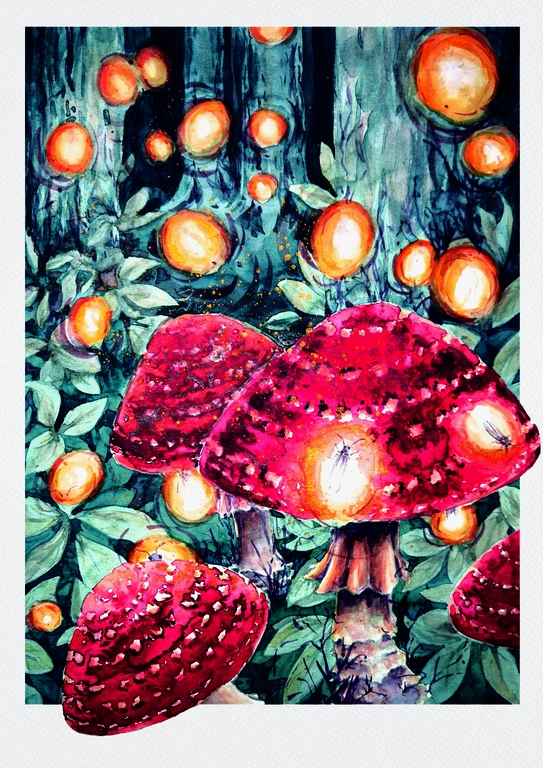
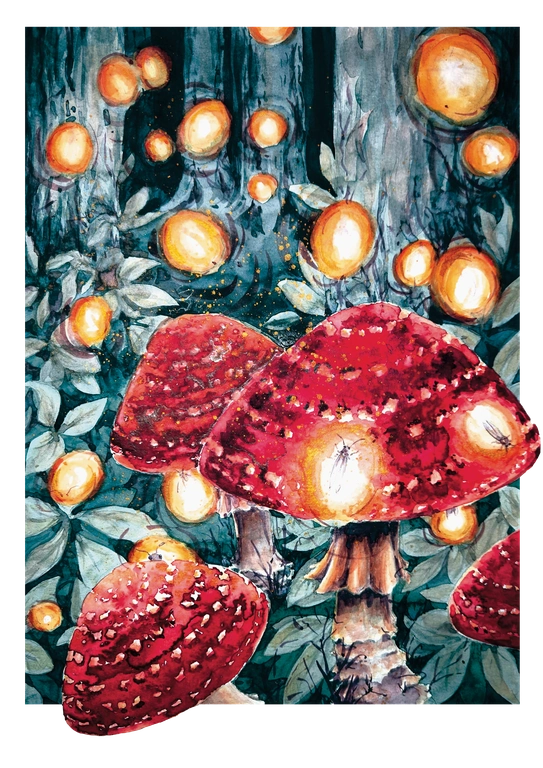
gallery imgs

diff --git a/AboutMe.html b/AboutMe.html
@@ -68,8 +68,8 @@
           <div class="col-lg-6">
             <h1 class="display-5 fw-bold chungus lh-1 my-3">Pigeons, Petals and Paint</h1>
             <p class="smol"> 
-              I get strong feelings when I find small creatures. I get teary eyed when I get the feeling no one's yet noticed the breathtaking pattern that this particular clover has arranged all by herself. 
-              I love seeing life push through beautifully where it shouldn’t and have a profound love for fat pigeons that I hope have never known struggle. I paint what feels real to me, I have a deep sense of respect for the complexity of the life that surrounds us and try my best to do it justice in my interpretations. My name is Carmita Valentina Salgado (CVS lol not like the pharmacy), I was born in Chicago and moved to Ecuador later in life, met the loml, got married, and moved to Spain where we currently live. I went through about 3 years of STEM hell only to realize I’d be significantly happier doing the things I love (who would have thought, ty Tahnja). Now, I have the privilege of sharing my art with a wider audience through the art fairs I attend annually; something I couldn’t do without the endless love and support from my family, who help make all of this possible. 
+              I get strong feelings when I find small creatures and get teary eyed when I get the feeling no one's yet noticed the breathtaking pattern that this particular clover has arranged all by herself. 
+              I love seeing life push through where it shouldn’t and have a profound love for the fat pigeons that I hope have never known struggle. I paint what feels real to me and have a deep sense of respect for the complexity of the life that surrounds us, and try my best to do it justice in my interpretations. My name is Carmita Valentina Salgado (CVS lol not like the pharmacy), I was born in Chicago and moved to Ecuador later in life, met the loml, got married, and moved to Spain where we currently live. I went through about 3 years of STEM hell only to realize I’d be significantly happier doing the things I love (who would have thought, ty Tahnja). Now, I have the privilege of sharing my art with a wider audience through the art fairs I attend annually; something I couldn’t do without the endless love and support from my family, who help make all of this possible. 
               </p>
             <div class="d-grid gap-2 d-md-flex justify-content-md-start">
               <button type="button" class="btn btn-primary btn-lg px-4 me-md-2"><a class="btnlink" href="./index.html" >My Work</a></button>

diff --git a/index.html b/index.html
@@ -78,10 +78,10 @@
               Art Inspired by Nature's Resilience
             </h1>
             <p class="lead smol">
-              The more we see the things around us, the more we grow inmune to their beauty. I like to show the lil' guys some love.
+              The more we see the things around us, the more we grow inmune to their beauty. It’s easy to overlook the smallest lives, yet imagining a world without them feels unbearably hollow.
             </p>
             <div class="d-grid gap-2 d-md-flex justify-content-md-start">
-              <button
+              <!-- <button
                 type="button"
                 class="btn btn-primary btn-lg px-4 me-md-2 smol button"
                 onclick="window.location.href='./Shop.html';"
@@ -94,7 +94,7 @@
                 onclick="window.location.href='./Comissions.html';"
               >
                 Something Custom?
-              </button>
+              </button> -->
             </div>
           </div>
         </div>
@@ -105,7 +105,35 @@
     <section id="gallery">
       <div class="container">
         <div class="grid-item">
+          <img src="./images/Gallery_Imgs/chillin.webp" alt="Artwork 1" />
+        </div>
+        
+        <div class="grid-item tall">
+          <img src="./images/Gallery_Imgs/morel.webp" alt="Artwork 2" />
+        </div>
+        
+        <div class="grid-item tall">
+          <img src="./images/Gallery_Imgs/Gamakichi.webp" alt="Artwork 2" />
+        </div>
+        <div class="grid-item tall">
+          <img src="./images/Gallery_Imgs/Am.webp" alt="Artwork 2" />
+        </div>
+        <div class="grid-item tall">
+          <img src="./images/Gallery_Imgs/bfrawg.webp" alt="Artwork 2" />
+        </div>
+        <div class="grid-item tall">
+          <img src="./images/Gallery_Imgs/echinacea.webp" alt="Artwork 2" />
+        </div>
+        <div class="grid-item tall">
+          <img src="./images/Gallery_Imgs/BESusan.webp" alt="Artwork 2" />
+        </div>
+        <div class="grid-item">
           <img src="./images/Gallery_Imgs/Bastard transparent.webp" alt="Artwork 1" />
+        </div>
+        <div class="grid-item">
+          <img
+            src="./images/Gallery_Imgs/brunch.webp"
+            alt="Artwork 3"/>
         </div>
         <div class="grid-item tall">
           <img src="./images/Gallery_Imgs/Birbs.webp" alt="Artwork 2" />

diff --git a/Tattoos.html b/Tattoos.html
@@ -69,7 +69,7 @@
             <p class="smol">Every design starts as a watercolor painting; loose, organic, and full of life before I refine it into a clean, tattoo-ready stencil. I turn botanicals (and just about anything else) into inkable art, keeping the flow of the original piece intact. Got an idea? Let’s sketch it out and make it happen.</p>
             <div class="d-grid gap-2 d-md-flex justify-content-md-start">
               <button type="button" class="btn btn-primary btn-lg px-4 me-md-2"><a class="btnlink" href="#pricing" >Get in Touch</a></button>
-              <button type="button" class="btn btn-outline-secondary btn-lg px-4">Comission a Design</button>
+              <button type="button" class="btn btn-outline-secondary btn-lg px-4"><a class="btnlink" href="./Forms/TatForm.html" >Comission a Design</a></button>
             </div>
           </div>
         </div>

diff --git a/css/style-Gallery.css b/css/style-Gallery.css
@@ -92,7 +92,7 @@ body{
   width:  100%;
   object-fit: contain;
   box-shadow: 0 4px 15px rgba(0, 0, 0, 0.3);
-  border: 8px ridge #e7e7e7;
+  border: 5px ridge #e7e7e7;
 }
 .botanical img{
   padding: 15px;
